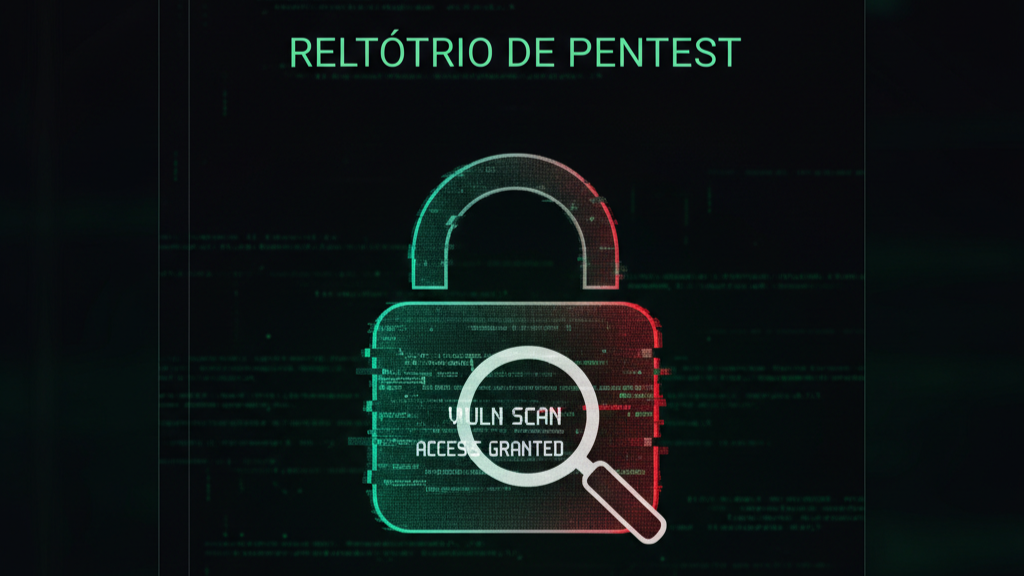
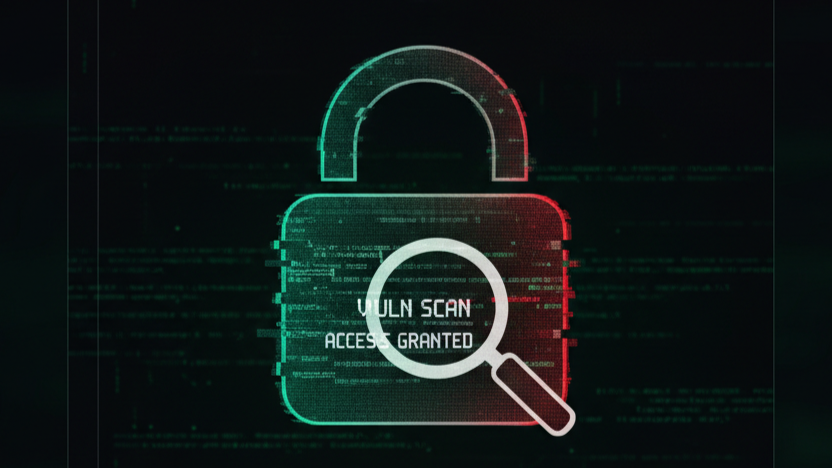
Atualização foto e link smartIoT

Changed region(s): [[0.2812, 0.0598, 0.7188, 0.9573]]

diff --git a/src/components/projects.js b/src/components/projects.js
@@ -21,7 +21,7 @@ export const projects = [
     result: "Sistema IoT funcional com autenticação, comunicação segura e registo de eventos.",
     tools: ["html", "css", "javascript", "php", "bootstrap"],
     repoUrl: "https://github.com/JuliaCarlini/smarthome-iot",
-    liveUrl: "https://smarthome-iot.infinityfree.me/",
+    liveUrl: "https://smarthome-iot-l67x.onrender.com",
     featured: true
   },
   {
